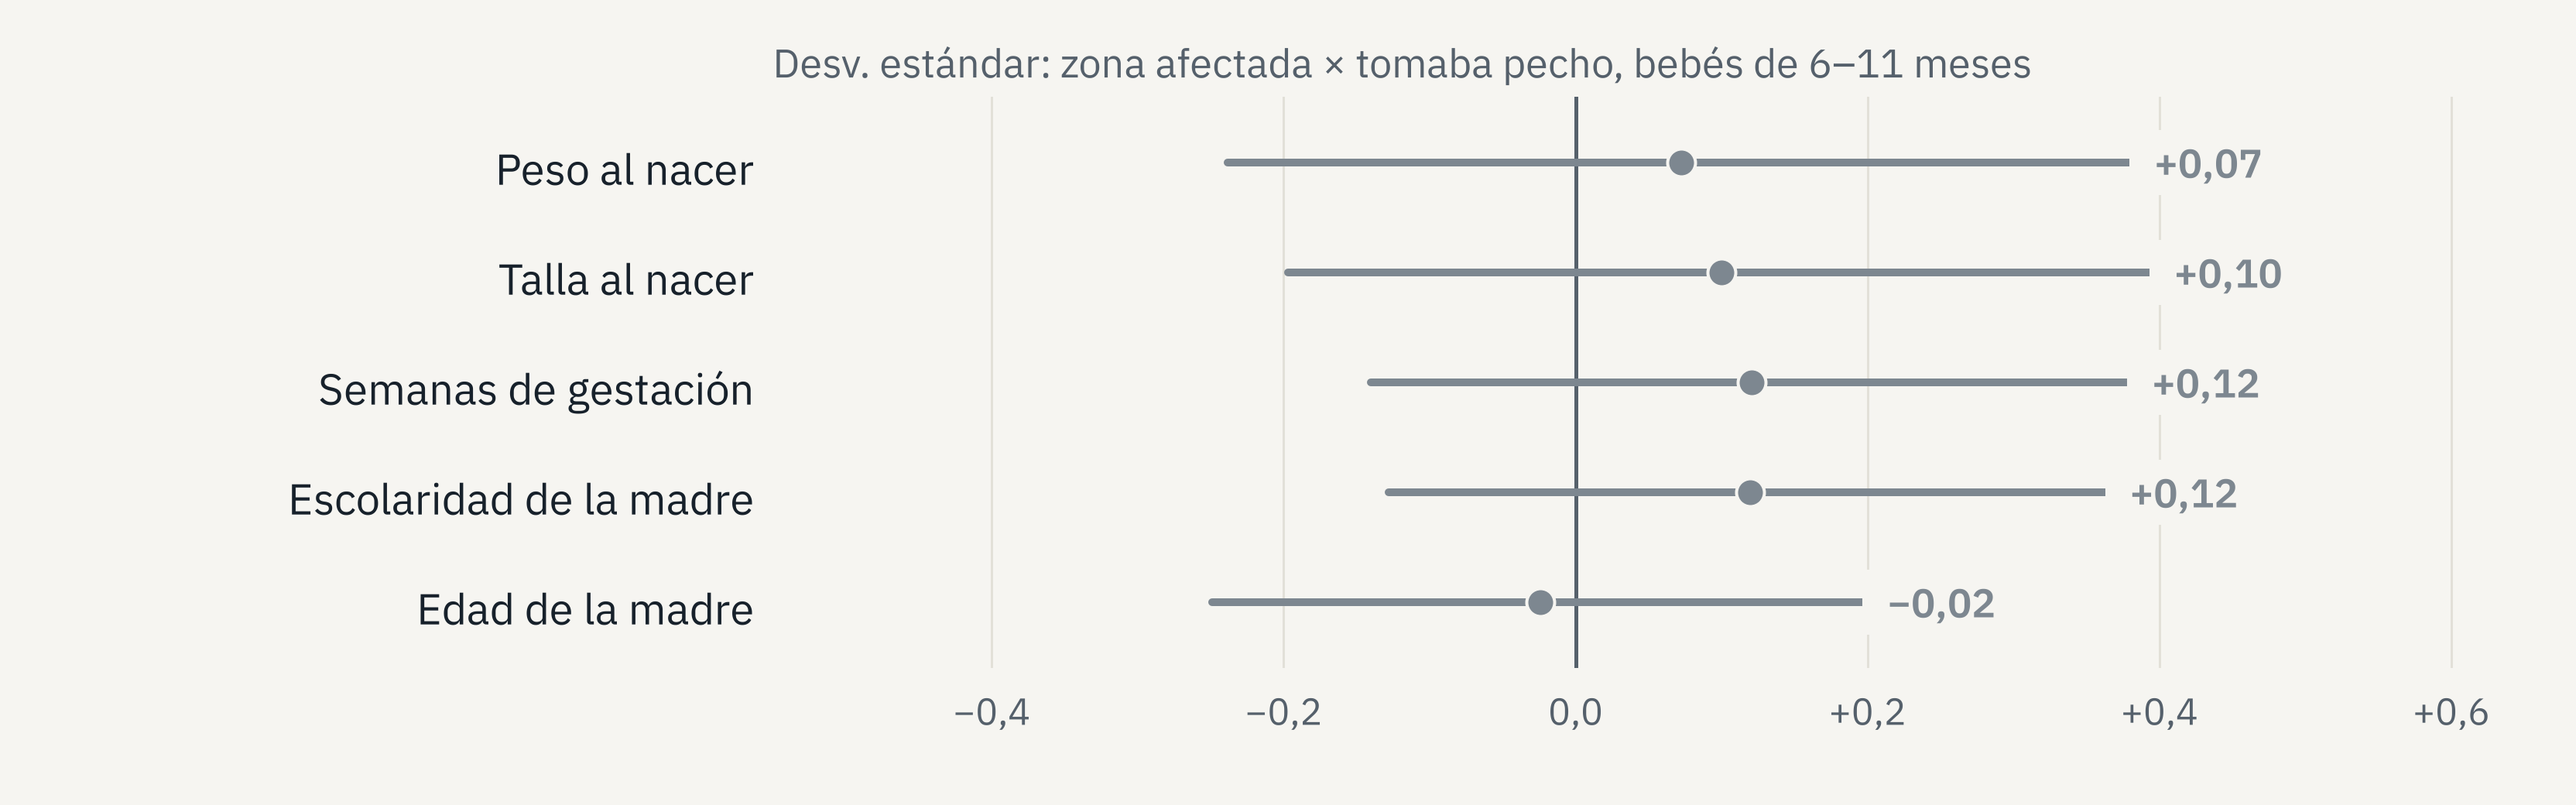
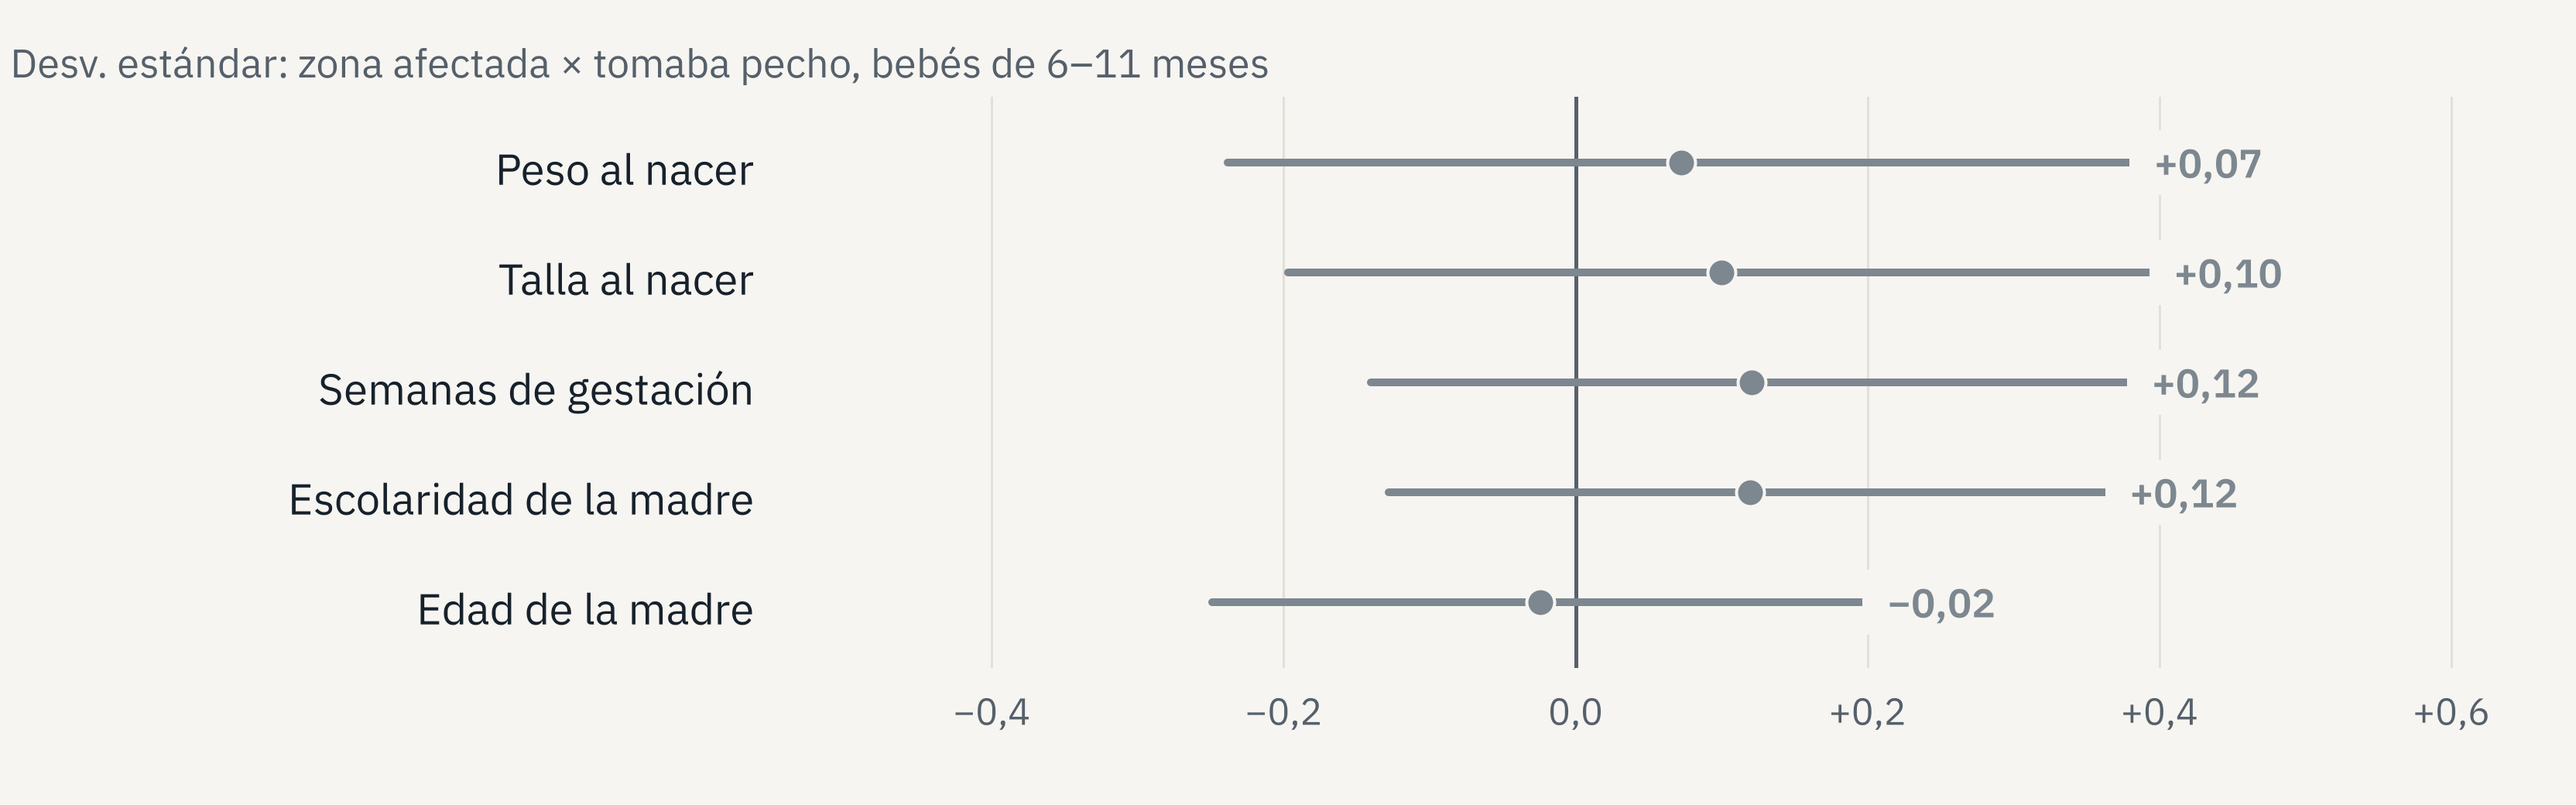
Coefplots de la presentación con todas las edades
Los tamizajes y los descartes muestran ahora a las chicas expuestas de
bebés y con 3-4 años frente a las de dos, en paneles separados cuando
hay muchas filas. Leyendas fuera del área de datos y sin etiquetas "-0".

Claude-Session: https://claude.ai/code/session_01UqKvCdoWhpNY2WRQ7PFfps

Changed region(s): [[0.0, 0.0615, 0.7812, 0.1231]]

diff --git a/scripts/22_figuras_presentacion.py b/scripts/22_figuras_presentacion.py
@@ -53,6 +53,7 @@ CHICAS, CHICOS = p21.CHICAS, p21.CHICOS
 # ------------------------------ estilo ------------------------------------
 BG, INK, ACC, MUTED = "#F6F5F1", "#17212B", "#2B5FA8", "#55606B"
 GRIS, GRID = "#7D8790", "#E2E0D8"
+NARANJA = "#B4561B"             # expuestas con 3-4 años
 S, DPI = 2, 200                 # 2 px de imagen por px de diapositiva
 FONTS = HERE / "fonts"
 REG = FONTS / "IBMPlexSans-Regular.ttf"
@@ -74,6 +75,8 @@ def fp(px, bold=False):
 
 
 def coma(x, dec=2, signo=True):
+    if round(x, dec) == 0:          # sin "−0"
+        x, signo = 0.0, False
     s = f"{x:+.{dec}f}" if signo else f"{x:.{dec}f}"
     return s.replace("-", "−").replace(".", ",")
 
@@ -105,12 +108,12 @@ def log(*a):
     OUT.append(s)
 
 
-def leyenda(ax, series, loc="upper left"):
+def leyenda(ax, series, loc="upper left", ancla=None):
     h = [Line2D([], [], marker="o", ls="none", ms=pt(16), color=s["color"],
                 label=s["name"]) for s in series]
     lg = ax.legend(handles=h, loc=loc, frameon=False, prop=fp(26),
                    handletextpad=0.3, borderaxespad=0.2, ncol=len(series),
-                   columnspacing=1.6)
+                   columnspacing=1.6, bbox_to_anchor=ancla)
     for t, s in zip(lg.get_texts(), series):
         t.set_color(INK)
 
@@ -203,10 +206,54 @@ def coef_horizontal(nombre, filas, series, titulo_eje, w=1664, h=520,
     for t in ax.get_xticklabels():
         t.set_fontproperties(fp(24))
         t.set_color(MUTED)
-    f.text(izq, 0.955, titulo_eje, fontproperties=fp(26), color=MUTED,
+    f.text(0.004, 0.955, titulo_eje, fontproperties=fp(26), color=MUTED,
            ha="left", va="top")
     if k > 1:
-        leyenda(ax, series, loc="lower right")
+        # encima del gráfico, en la línea del título del eje
+        leyenda(ax, series, loc="lower right", ancla=(1.0, 1.0))
+    guarda(f, nombre)
+
+
+def coef_paneles(nombre, filas, paneles, titulo_eje, w=1664, h=520,
+                 xlim=None, escala=1.0, dec=2, izq=0.34):
+    """Coefplot horizontal en paneles lado a lado (una serie por panel)."""
+    f = lienzo(w, h)
+    n, sep = len(paneles), 0.03
+    ancho = (0.98 - izq - sep * (n - 1)) / n
+    ys = np.arange(len(filas))[::-1].astype(float)
+    for j, pnl in enumerate(paneles):
+        ax = f.add_axes([izq + j * (ancho + sep), 0.15, ancho, 0.66])
+        ejes_limpios(ax, eje="x")
+        for i, p in enumerate(pnl["pts"]):
+            b, se = p[0] * escala, p[1] * escala
+            ax.plot([b - 1.96 * se, b + 1.96 * se], [ys[i], ys[i]],
+                    color=pnl["color"], lw=pt(5), solid_capstyle="round",
+                    zorder=3)
+            ax.plot(b, ys[i], "o", ms=pt(18), color=pnl["color"], mec=BG,
+                    mew=pt(2), zorder=4)
+            ax.text(b + 1.96 * se, ys[i], "  " + coma(b, dec), ha="left",
+                    va="center", fontproperties=fp(24, bold=True),
+                    color=pnl["color"], zorder=5)
+        ax.axvline(0, color=MUTED, lw=pt(2.5), zorder=2)
+        ax.set_ylim(-0.6, len(filas) - 0.4)
+        ax.set_yticks(ys)
+        ax.set_yticklabels(filas if j == 0 else [])
+        for t in ax.get_yticklabels():
+            t.set_fontproperties(fp(28))
+            t.set_color(INK)
+        if xlim:
+            ax.set_xlim(*xlim)
+        ax.xaxis.set_major_locator(matplotlib.ticker.MultipleLocator(10))
+        ax.xaxis.set_major_formatter(
+            matplotlib.ticker.FuncFormatter(
+                lambda v, _: coma(v, 0 if escala == 100 else 1, v != 0)))
+        for t in ax.get_xticklabels():
+            t.set_fontproperties(fp(24))
+            t.set_color(MUTED)
+        ax.set_title(pnl["name"], fontproperties=fp(26, bold=True),
+                     color=pnl["color"], loc="left", pad=pt(12))
+    f.text(0.004, 0.965, titulo_eje, fontproperties=fp(26), color=MUTED,
+           ha="left", va="top")
     guarda(f, nombre)
 
 
@@ -301,23 +348,26 @@ def main():
                   "Síntomas PHQ-4 a los 15–18 años frente a los expuestos "
                   "con dos años (desv. estándar)", ylim=(-0.35, 0.62))
 
-    # 2. Tamizajes, bebés frente a dos años, por sexo
+    # 2. Tamizajes en las chicas: bebés y 3-4 años frente a dos años
     filas = ["Ansiedad\n(GAD-2 positivo)", "Depresión\n(PHQ-2 positivo)"]
-    series = []
-    for nom, s, col in (("Chicas", CHICAS, ACC), ("Chicos", CHICOS, GRIS)):
-        pts = []
-        for y in ("gad2_bin", "phq2_bin"):
-            b, n, _, _ = reg(d, y, sample=s)
-            dd = d[s(d)].dropna(subset=[y, "w"])
-            base = np.average(dd[y], weights=dd.w)
-            log(f"- {nom}, {y}: bebés frente a 2 {fmt(b['0-11m'])}; "
-                f"media ponderada {base:.3f}; N={n}")
-            pts.append(b["0-11m"])
-        series.append({"name": nom, "color": col, "pts": pts})
+    res = {y: reg(d, y, sample=CHICAS) for y in ("gad2_bin", "phq2_bin")}
+    for y in res:
+        dd = d[CHICAS(d)].dropna(subset=[y, "w"])
+        base = np.average(dd[y], weights=dd.w)
+        b = res[y][0]
+        log(f"- chicas, {y}: bebés {fmt(b['0-11m'])}; 3-4 {fmt(b['36-59m'])};"
+            f" media ponderada {base:.3f}; N={res[y][1]}")
+    for y in ("gad2_bin", "phq2_bin"):
+        b, n, _, _ = reg(d, y, sample=CHICOS)
+        log(f"- chicos, {y}: bebés {fmt(b['0-11m'])}; 3-4 {fmt(b['36-59m'])}")
+    series = [{"name": "Bebés de 6–11 meses", "color": ACC,
+               "pts": [res[y][0]["0-11m"] for y in ("gad2_bin", "phq2_bin")]},
+              {"name": "3–4 años", "color": NARANJA,
+               "pts": [res[y][0]["36-59m"] for y in ("gad2_bin", "phq2_bin")]}]
     coef_horizontal("tamizajes.png", filas, series,
-                    "Expuestos de bebés frente a expuestos con dos años "
+                    "Chicas, frente a las expuestas con dos años "
                     "(puntos porcentuales)", escala=100, dec=0,
-                    xlim=(-14, 32), h=440, izq=0.24)
+                    xlim=(-6, 32), h=440, izq=0.24)
 
     # 3. Especificidad en las chicas: síntomas frente a vocabulario
     series = []
@@ -370,8 +420,8 @@ def main():
                     "Desv. estándar: zona afectada × tomaba pecho, bebés de "
                     "6–11 meses", xlim=(-0.55, 0.65), h=520, izq=0.30)
 
-    # 6. Lo que no lo explica, chicas, bebés frente a dos años
-    filas, pts = [], []
+    # 6. Lo que no lo explica, chicas, bebés y 3-4 frente a dos años
+    filas, pts, pts34 = [], [], []
     for y, lab in (("peleas17", "Presenció peleas en casa (2017)"),
                    ("grito12", "La madre le grita (2012)"),
                    ("amenaza12", "La madre la amenaza (2012)"),
@@ -379,14 +429,17 @@ def main():
                    ("grito17", "La gritaron o insultaron (2017)"),
                    ("golpes17", "La sacudieron o golpearon (2017)")):
         b, n, _, _ = reg(d, y, sample=CHICAS)
-        log(f"- chicas {lab}: bebés frente a 2 {fmt(b['0-11m'])}; N={n}")
+        log(f"- chicas {lab}: bebés frente a 2 {fmt(b['0-11m'])}; 3-4 "
+            f"frente a 2 {fmt(b['36-59m'])}; N={n}")
         filas.append(lab)
         pts.append(b["0-11m"])
-    coef_horizontal("descartado.png", filas,
-                    [{"name": "", "color": GRIS, "pts": pts}],
-                    "Chicas expuestas de bebés frente a expuestas con dos "
-                    "años (puntos porcentuales)", escala=100, dec=0,
-                    xlim=(-30, 22), h=520, izq=0.36)
+        pts34.append(b["36-59m"])
+    coef_paneles("descartado.png", filas,
+                 [{"name": "Bebés de 6–11 meses", "color": ACC, "pts": pts},
+                  {"name": "3–4 años", "color": NARANJA, "pts": pts34}],
+                 "Chicas, frente a las expuestas con dos años "
+                 "(puntos porcentuales)", escala=100, dec=0,
+                 xlim=(-24, 18), h=520, izq=0.30)
     base = d.dropna(subset=["peleas17", "peleas24"])
     r0, _, _, _ = reg(base, "z_phq4", sample=CHICAS)
     r1, _, _, _ = reg(base, "z_phq4", sample=CHICAS,

diff --git a/reports/presentacion_numeros.md b/reports/presentacion_numeros.md
@@ -11,10 +11,10 @@
 - 12-23m: +0.052 (ee 0.085, p=0.541)
 - 36-59m: +0.042 (ee 0.086, p=0.626)
 -> reports/figures/presentacion/perfil_sexo.png
-- Chicas, gad2_bin: bebés frente a 2 +0.137*** (ee 0.047, p=0.003); media ponderada 0.336; N=4961
-- Chicas, phq2_bin: bebés frente a 2 +0.117** (ee 0.057, p=0.040); media ponderada 0.418; N=4961
-- Chicos, gad2_bin: bebés frente a 2 +0.026 (ee 0.048, p=0.587); media ponderada 0.215; N=5035
-- Chicos, phq2_bin: bebés frente a 2 -0.016 (ee 0.045, p=0.723); media ponderada 0.280; N=5035
+- chicas, gad2_bin: bebés +0.137*** (ee 0.047, p=0.003); 3-4 +0.077* (ee 0.044, p=0.075); media ponderada 0.336; N=4961
+- chicas, phq2_bin: bebés +0.117** (ee 0.057, p=0.040); 3-4 +0.092** (ee 0.043, p=0.035); media ponderada 0.418; N=4961
+- chicos, gad2_bin: bebés +0.026 (ee 0.048, p=0.587); 3-4 +0.053 (ee 0.036, p=0.141)
+- chicos, phq2_bin: bebés -0.016 (ee 0.045, p=0.723); 3-4 -0.003 (ee 0.043, p=0.948)
 -> reports/figures/presentacion/tamizajes.png
 
 ## Chicas, z_phq4 (orientado como daño), frente a 2 años, N=4961
@@ -39,12 +39,12 @@
 - placebo lactancia Escolaridad de la madre: +0.119 (ee 0.126, p=0.344); N=1255
 - placebo lactancia Edad de la madre: -0.024 (ee 0.115, p=0.833); N=1261
 -> reports/figures/presentacion/lactancia_placebo.png
-- chicas Presenció peleas en casa (2017): bebés frente a 2 +0.006 (ee 0.043, p=0.896); N=3764
-- chicas La madre le grita (2012): bebés frente a 2 -0.010 (ee 0.033, p=0.754); N=4418
-- chicas La madre la amenaza (2012): bebés frente a 2 +0.012 (ee 0.054, p=0.828); N=4419
-- chicas La madre le pega (2012): bebés frente a 2 -0.091 (ee 0.061, p=0.135); N=4417
-- chicas La gritaron o insultaron (2017): bebés frente a 2 -0.098* (ee 0.059, p=0.099); N=3764
-- chicas La sacudieron o golpearon (2017): bebés frente a 2 -0.086 (ee 0.059, p=0.145); N=3764
+- chicas Presenció peleas en casa (2017): bebés frente a 2 +0.006 (ee 0.043, p=0.896); 3-4 frente a 2 -0.005 (ee 0.029, p=0.875); N=3764
+- chicas La madre le grita (2012): bebés frente a 2 -0.010 (ee 0.033, p=0.754); 3-4 frente a 2 +0.005 (ee 0.032, p=0.873); N=4418
+- chicas La madre la amenaza (2012): bebés frente a 2 +0.012 (ee 0.054, p=0.828); 3-4 frente a 2 -0.045 (ee 0.041, p=0.280); N=4419
+- chicas La madre le pega (2012): bebés frente a 2 -0.091 (ee 0.061, p=0.135); 3-4 frente a 2 -0.011 (ee 0.049, p=0.825); N=4417
+- chicas La gritaron o insultaron (2017): bebés frente a 2 -0.098* (ee 0.059, p=0.099); 3-4 frente a 2 -0.057 (ee 0.041, p=0.165); N=3764
+- chicas La sacudieron o golpearon (2017): bebés frente a 2 -0.086 (ee 0.059, p=0.145); 3-4 frente a 2 +0.020 (ee 0.034, p=0.551); N=3764
 -> reports/figures/presentacion/descartado.png
 - chicas, PHQ-4 bebés frente a 2 sin y con control por peleas 2017 y 2024: +0.307** (ee 0.139, p=0.027) -> +0.288** (ee 0.139, p=0.038) (6% menos)
 - chicas, peleas presenciadas 2024: bebés frente a 2 +0.092** (ee 0.045, p=0.043); N=4802
